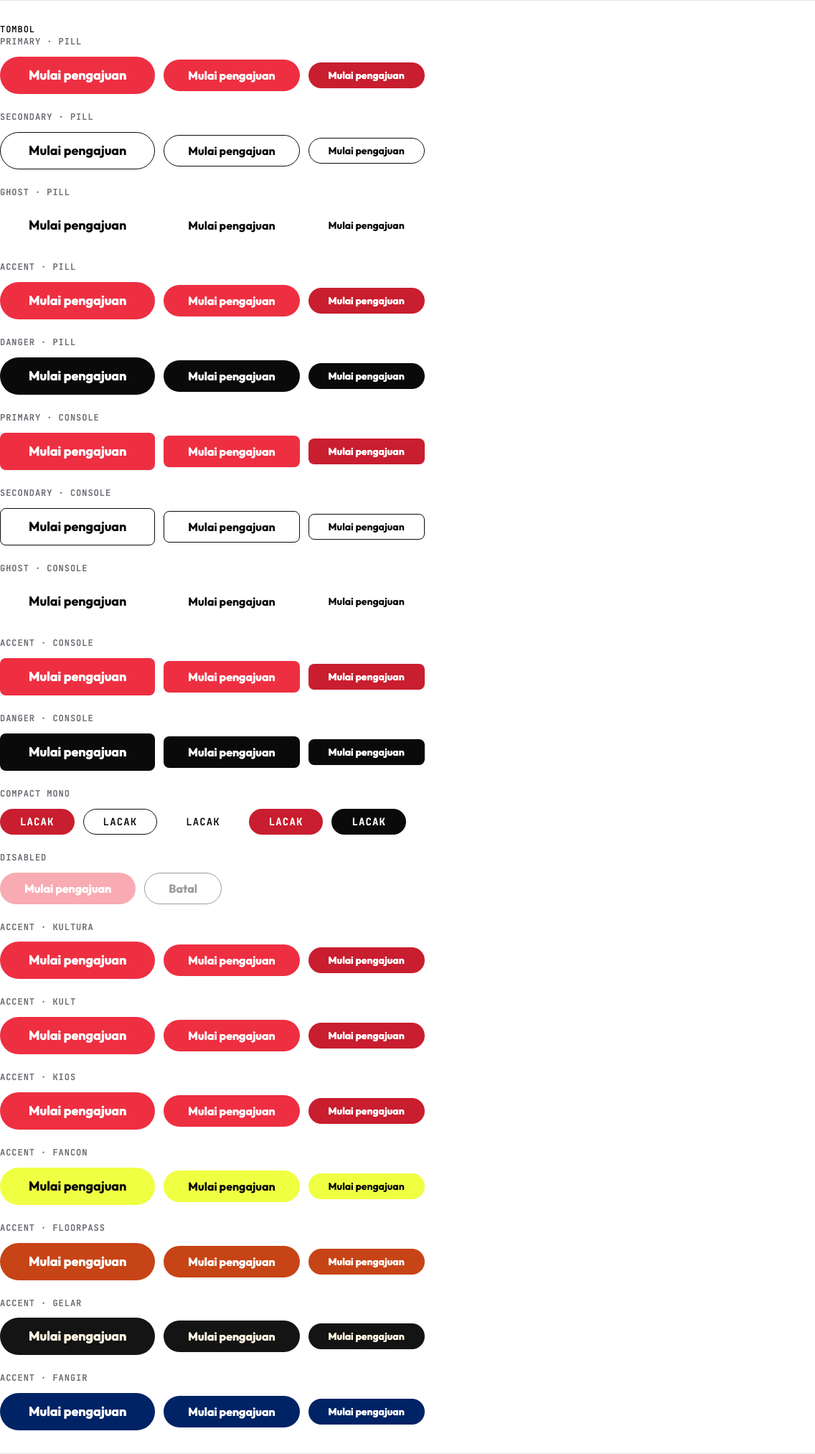
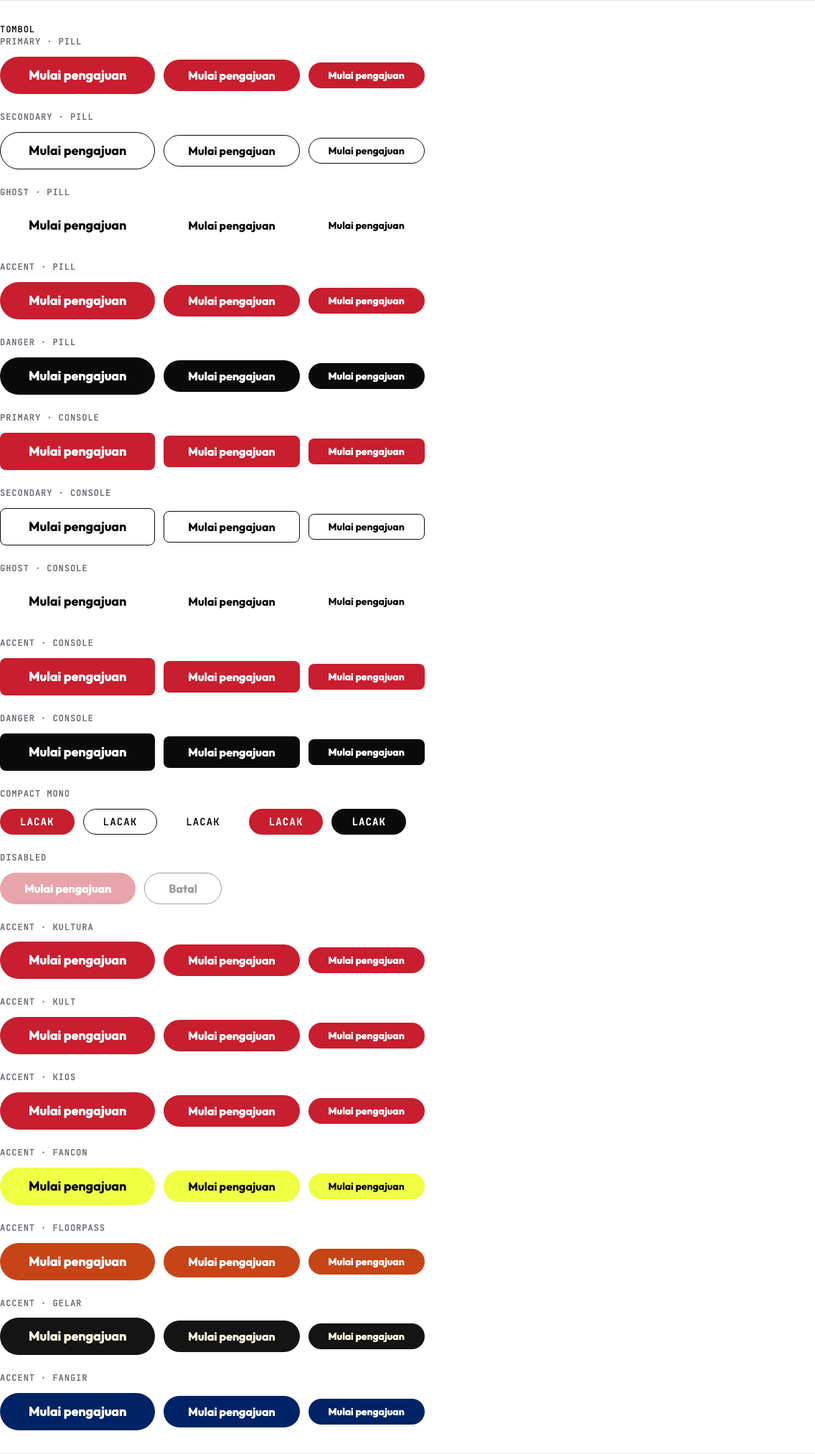
v0.1.1: red-700 button fills, large text on the footer strip, strip container hooks
- Red buttons fill with red-700 at every size (white on red-500 is 4.1:1); accent takes each
  preset's text-safe pair at every size
- Footer strip links and entity line at 19 px bold, so all strip text is large (AA 3:1)
- --k-strip-max and --k-strip-pad let a site line the strip up with its own container
- Version 0.1.1; README, adoption notes and screenshots updated

diff --git a/dist/kultura-house-kit.css b/dist/kultura-house-kit.css
@@ -1,1 +1,1 @@
-:root{--k-red-500:#ee2f42;--k-red-700:#c81e2f;--k-red-800:#b0182a;--k-ink:#0a0a0a;--k-paper:#fff;--k-surface:#f4f4f4;--k-line:#e6e6e6;--k-muted:#6e6e76;--k-amber-text:#8a5a00;--k-amber-tint:#fff4de;--k-amber-line:#f2dca8;--k-green:#0f7a3d;--k-green-tint:#e9f8ef;--k-accent:var(--k-red-500);--k-on-accent:#fff;--k-font:"Outfit",system-ui,sans-serif;--k-mono:"JetBrains Mono",ui-monospace,monospace;--k-radius-pill:9999px;--k-radius-console:8px;--k-radius-card:12px;--k-fast:.12s;--k-base:.2s;--k-slow:.32s;--k-ease:cubic-bezier(.2,.7,.2,1)}[data-k-product=kultura],[data-k-product=kult],[data-k-product=kios]{--k-accent:#ee2f42;--k-on-accent:#fff}[data-k-product=fancon]{--k-accent:#efff42;--k-on-accent:#0a0a0a}[data-k-product=floorpass]{--k-accent:#c74416;--k-on-accent:#fff}[data-k-product=gelar]{--k-accent:#141414;--k-on-accent:#fff4e1}[data-k-product=fangir]{--k-accent:#002366;--k-on-accent:#fff}.k-display,.k-h1,.k-h2,.k-h3,.k-body,.k-small{font-family:var(--k-font);margin:0}.k-display{letter-spacing:-.02em;font-size:48px;font-weight:800;line-height:.95}.k-h1{letter-spacing:-.02em;font-size:40px;font-weight:800;line-height:1.02}.k-h2{letter-spacing:normal;font-size:32px;font-weight:700;line-height:1.05}.k-h3{font-size:22px;font-weight:700;line-height:1.15}.k-body{font-size:16px;font-weight:400;line-height:1.5}.k-small{font-size:14px;font-weight:400;line-height:1.45}.k-label{font-family:var(--k-mono);letter-spacing:.08em;text-transform:uppercase;margin:0;font-size:12px;font-weight:500;line-height:1.4}@media (width>=640px){.k-display{font-size:96px}.k-h1{font-size:64px}.k-h2{letter-spacing:-.02em;font-size:44px}.k-h3{font-size:28px}.k-body{font-size:17px}}.k-btn{--k-btn-h:44px;--k-btn-fs:16px;--k-btn-bg:transparent;--k-btn-fg:var(--k-ink);--k-btn-bd:transparent;box-sizing:border-box;height:var(--k-btn-h);padding:0 calc(var(--k-btn-h) * .75);font-family:var(--k-font);font-size:var(--k-btn-fs);letter-spacing:normal;text-transform:none;white-space:nowrap;color:var(--k-btn-fg);background:var(--k-btn-bg);border:1.5px solid var(--k-btn-bd);border-radius:var(--k-radius-pill);cursor:pointer;-webkit-tap-highlight-color:transparent;justify-content:center;align-items:center;gap:8px;font-weight:700;line-height:1;text-decoration:none;display:inline-flex}.k-btn--hero{--k-btn-h:52px;--k-btn-fs:18px}.k-btn--compact{--k-btn-h:36px;--k-btn-fs:14px}.k-btn--primary{--k-btn-bg:var(--k-red-500);--k-btn-fg:#fff}.k-btn--primary.k-btn--compact{--k-btn-bg:var(--k-red-700)}.k-btn--secondary{--k-btn-bg:transparent;--k-btn-fg:var(--k-ink);--k-btn-bd:var(--k-ink)}.k-btn--ghost{--k-btn-bg:transparent;--k-btn-fg:var(--k-ink)}.k-btn--accent{--k-btn-bg:var(--k-accent);--k-btn-fg:var(--k-on-accent)}:root{--k-btn-accent-compact:var(--k-red-700)}[data-k-product]{--k-btn-accent-compact:var(--k-accent)}[data-k-product=kultura],[data-k-product=kult],[data-k-product=kios]{--k-btn-accent-compact:var(--k-red-700)}.k-btn--accent.k-btn--compact{--k-btn-bg:var(--k-btn-accent-compact)}.k-btn--danger{--k-btn-bg:var(--k-ink);--k-btn-fg:#fff}.k-btn--console{border-radius:var(--k-radius-console)}.k-btn--compact.k-btn--mono{font-family:var(--k-mono);letter-spacing:.08em;text-transform:uppercase;font-weight:500}.k-btn__icon{flex:none;order:1;display:inline-flex}.k-btn:hover{filter:brightness(.94)}.k-btn--ghost:hover{filter:none;text-underline-offset:3px;text-decoration:underline}.k-btn:active{filter:brightness(.88)}.k-btn:disabled,.k-btn[aria-disabled=true]{opacity:.4;filter:none;cursor:not-allowed;pointer-events:none}.k-btn:focus-visible,:where(a,button,input,select,textarea,summary,[tabindex]):focus-visible{outline:3px solid var(--k-red-800);outline-offset:2px}:root[data-k-motion] .k-reveal:not(.is-revealed){opacity:0;transform:translateY(12px)}.k-reveal{transition:opacity var(--k-slow,.32s) var(--k-ease,cubic-bezier(.2,.7,.2,1)),transform var(--k-slow,.32s) var(--k-ease,cubic-bezier(.2,.7,.2,1))}.k-lift{transition:transform var(--k-fast,.12s) var(--k-ease,cubic-bezier(.2,.7,.2,1))}.k-lift:hover{transform:translateY(-2px)}@media (prefers-reduced-motion:reduce){:root[data-k-motion] .k-reveal:not(.is-revealed){opacity:1;transform:none}.k-reveal,.k-lift{transition:none}.k-lift:hover{transform:none}}k-footer-strip,.k-footer-strip{--k-strip-bg:#ee2f42;--k-strip-fg:#fff;--k-strip-font:var(--k-font,"Outfit",system-ui,sans-serif);box-sizing:border-box;background:var(--k-strip-bg);width:100%;color:var(--k-strip-fg);font-family:var(--k-strip-font);display:block}.k-footer-strip__inner{box-sizing:border-box;flex-wrap:wrap;align-items:baseline;gap:12px 32px;max-width:1280px;margin:0 auto;padding:24px 16px;display:flex}.k-footer-strip__line{margin:0;font-size:20px;font-weight:700;line-height:1.3}.k-footer-strip__nav{flex:auto}.k-footer-strip__links{flex-wrap:wrap;gap:8px 20px;margin:0;padding:0;list-style:none;display:flex}.k-footer-strip__link{color:inherit;font-size:16px;font-weight:500;line-height:1.5;text-decoration:none}.k-footer-strip__link:hover{text-underline-offset:3px;text-decoration:underline}.k-footer-strip__link:focus-visible{outline:3px solid var(--k-strip-fg);outline-offset:2px}.k-footer-strip__entity{flex-basis:100%;margin:0;font-size:14px;font-weight:400;line-height:1.45}@media (width>=640px){.k-footer-strip__inner{padding:28px 32px}}.k-footer-wordmark{white-space:nowrap;width:100%;font-family:var(--k-font,"Outfit",system-ui,sans-serif);letter-spacing:-.02em;margin:0;font-size:clamp(64px,18vw,240px);font-weight:800;line-height:.85;display:block;overflow:hidden}k-card-viewer{max-width:var(--k-cv-max,100%);-webkit-tap-highlight-color:transparent;touch-action:pan-y;margin-inline:auto;display:block;position:relative}k-card-viewer:not(:defined)>img{border-radius:var(--k-radius-card,12px);width:100%;height:auto;display:block}k-card-viewer[role=button]{cursor:pointer}k-card-viewer:focus-visible{outline:3px solid var(--k-red-800,#b0182a);outline-offset:4px;border-radius:var(--k-radius-card,12px)}.k-cv__stage{perspective:1000px}.k-cv__card{transform-style:preserve-3d;transform:rotateX(var(--k-rx,0deg)) rotateY(calc(var(--k-ry,0deg) + var(--k-flip,0deg)));transition:transform var(--k-fast,.12s) var(--k-ease,cubic-bezier(.2,.7,.2,1));position:relative}k-card-viewer[data-k-state=settling] .k-cv__card,k-card-viewer[data-k-state=flipping] .k-cv__card{transition-duration:var(--k-slow,.32s)}.k-cv__face{border-radius:var(--k-radius-card,12px);backface-visibility:hidden;background:var(--k-surface,#f4f4f4);position:relative;overflow:hidden}.k-cv__face img{width:100%;max-width:100%;height:auto;display:block}.k-cv__face--back{position:absolute;inset:0;transform:rotateY(180deg)}.k-cv__face--back img{object-fit:cover;height:100%}.k-cv__sheen{pointer-events:none;mix-blend-mode:color-dodge;opacity:.35;border-radius:inherit;background-size:200% 200%;background-position:var(--k-sheen-x,50%) var(--k-sheen-y,50%);position:absolute;inset:0}k-card-viewer[sheen=none] .k-cv__sheen,k-card-viewer[data-k-sheen=none] .k-cv__sheen{display:none}k-card-viewer[data-k-sheen=holo] .k-cv__sheen{background-image:linear-gradient(var(--k-sheen-angle,115deg),transparent 20%,#ff7ad9 34%,#7af3ff 44%,#fff58a 54%,#8aff9c 64%,transparent 80%)}k-card-viewer[data-k-sheen=foil] .k-cv__sheen{background-image:linear-gradient(var(--k-sheen-angle,115deg),transparent 25%,#fff 40%,#d9c27a 50%,#fff 60%,transparent 75%)}k-card-viewer[data-k-kind=slab] .k-cv__face{aspect-ratio:3.07/5.31;box-sizing:border-box;background:linear-gradient(160deg,#fbfbfb,#e7e8ea);border:1px solid #0a0a0a24;border-radius:10px;grid-template-rows:auto minmax(0,1fr);gap:4%;padding:5%;display:grid}.k-cv__label{box-sizing:border-box;border:1px solid var(--k-line,#e6e6e6);min-height:2.6em;color:var(--k-ink,#0a0a0a);font-family:var(--k-mono,"JetBrains Mono",ui-monospace,monospace);letter-spacing:.08em;text-transform:uppercase;background:#fff;border-radius:3px;align-items:center;padding:6px 8px;font-size:12px;font-weight:500;line-height:1.3;display:flex;overflow:hidden}.k-cv__window{background:#0a0a0a0a;border-radius:4px;justify-content:center;align-items:center;min-height:0;display:flex;overflow:hidden}k-card-viewer[data-k-kind=slab] .k-cv__window img{object-fit:contain;width:auto;height:auto;max-height:100%}k-card-viewer[data-k-kind=slab] .k-cv__face--back img{height:auto}k-card-viewer[data-k-reduced] .k-cv__card{transition:none;transform:none}k-card-viewer[data-k-reduced] .k-cv__sheen{display:none}k-card-viewer[data-k-reduced] .k-cv__face--back{display:none;position:relative;transform:none}k-card-viewer[data-k-reduced][data-k-side=back] .k-cv__face--front{display:none}k-card-viewer[data-k-reduced][data-k-side=back] .k-cv__face--back{display:grid}k-card-viewer[data-k-reduced][data-k-kind=card][data-k-side=back] .k-cv__face--back{display:block}@media (prefers-reduced-motion:reduce){.k-cv__card{transition:none!important;transform:none!important}.k-cv__sheen{display:none}}
+:root{--k-red-500:#ee2f42;--k-red-700:#c81e2f;--k-red-800:#b0182a;--k-ink:#0a0a0a;--k-paper:#fff;--k-surface:#f4f4f4;--k-line:#e6e6e6;--k-muted:#6e6e76;--k-amber-text:#8a5a00;--k-amber-tint:#fff4de;--k-amber-line:#f2dca8;--k-green:#0f7a3d;--k-green-tint:#e9f8ef;--k-accent:var(--k-red-500);--k-on-accent:#fff;--k-font:"Outfit",system-ui,sans-serif;--k-mono:"JetBrains Mono",ui-monospace,monospace;--k-radius-pill:9999px;--k-radius-console:8px;--k-radius-card:12px;--k-fast:.12s;--k-base:.2s;--k-slow:.32s;--k-ease:cubic-bezier(.2,.7,.2,1)}[data-k-product=kultura],[data-k-product=kult],[data-k-product=kios]{--k-accent:#ee2f42;--k-on-accent:#fff}[data-k-product=fancon]{--k-accent:#efff42;--k-on-accent:#0a0a0a}[data-k-product=floorpass]{--k-accent:#c74416;--k-on-accent:#fff}[data-k-product=gelar]{--k-accent:#141414;--k-on-accent:#fff4e1}[data-k-product=fangir]{--k-accent:#002366;--k-on-accent:#fff}.k-display,.k-h1,.k-h2,.k-h3,.k-body,.k-small{font-family:var(--k-font);margin:0}.k-display{letter-spacing:-.02em;font-size:48px;font-weight:800;line-height:.95}.k-h1{letter-spacing:-.02em;font-size:40px;font-weight:800;line-height:1.02}.k-h2{letter-spacing:normal;font-size:32px;font-weight:700;line-height:1.05}.k-h3{font-size:22px;font-weight:700;line-height:1.15}.k-body{font-size:16px;font-weight:400;line-height:1.5}.k-small{font-size:14px;font-weight:400;line-height:1.45}.k-label{font-family:var(--k-mono);letter-spacing:.08em;text-transform:uppercase;margin:0;font-size:12px;font-weight:500;line-height:1.4}@media (width>=640px){.k-display{font-size:96px}.k-h1{font-size:64px}.k-h2{letter-spacing:-.02em;font-size:44px}.k-h3{font-size:28px}.k-body{font-size:17px}}.k-btn{--k-btn-h:44px;--k-btn-fs:16px;--k-btn-bg:transparent;--k-btn-fg:var(--k-ink);--k-btn-bd:transparent;box-sizing:border-box;height:var(--k-btn-h);padding:0 calc(var(--k-btn-h) * .75);font-family:var(--k-font);font-size:var(--k-btn-fs);letter-spacing:normal;text-transform:none;white-space:nowrap;color:var(--k-btn-fg);background:var(--k-btn-bg);border:1.5px solid var(--k-btn-bd);border-radius:var(--k-radius-pill);cursor:pointer;-webkit-tap-highlight-color:transparent;justify-content:center;align-items:center;gap:8px;font-weight:700;line-height:1;text-decoration:none;display:inline-flex}.k-btn--hero{--k-btn-h:52px;--k-btn-fs:18px}.k-btn--compact{--k-btn-h:36px;--k-btn-fs:14px}.k-btn--primary{--k-btn-bg:var(--k-red-700);--k-btn-fg:#fff}.k-btn--secondary{--k-btn-bg:transparent;--k-btn-fg:var(--k-ink);--k-btn-bd:var(--k-ink)}.k-btn--ghost{--k-btn-bg:transparent;--k-btn-fg:var(--k-ink)}:root{--k-btn-accent-fill:var(--k-red-700)}[data-k-product]{--k-btn-accent-fill:var(--k-accent)}[data-k-product=kultura],[data-k-product=kult],[data-k-product=kios]{--k-btn-accent-fill:var(--k-red-700)}.k-btn--accent{--k-btn-bg:var(--k-btn-accent-fill);--k-btn-fg:var(--k-on-accent)}.k-btn--danger{--k-btn-bg:var(--k-ink);--k-btn-fg:#fff}.k-btn--console{border-radius:var(--k-radius-console)}.k-btn--compact.k-btn--mono{font-family:var(--k-mono);letter-spacing:.08em;text-transform:uppercase;font-weight:500}.k-btn__icon{flex:none;order:1;display:inline-flex}.k-btn:hover{filter:brightness(.94)}.k-btn--ghost:hover{filter:none;text-underline-offset:3px;text-decoration:underline}.k-btn:active{filter:brightness(.88)}.k-btn:disabled,.k-btn[aria-disabled=true]{opacity:.4;filter:none;cursor:not-allowed;pointer-events:none}.k-btn:focus-visible,:where(a,button,input,select,textarea,summary,[tabindex]):focus-visible{outline:3px solid var(--k-red-800);outline-offset:2px}:root[data-k-motion] .k-reveal:not(.is-revealed){opacity:0;transform:translateY(12px)}.k-reveal{transition:opacity var(--k-slow,.32s) var(--k-ease,cubic-bezier(.2,.7,.2,1)),transform var(--k-slow,.32s) var(--k-ease,cubic-bezier(.2,.7,.2,1))}.k-lift{transition:transform var(--k-fast,.12s) var(--k-ease,cubic-bezier(.2,.7,.2,1))}.k-lift:hover{transform:translateY(-2px)}@media (prefers-reduced-motion:reduce){:root[data-k-motion] .k-reveal:not(.is-revealed){opacity:1;transform:none}.k-reveal,.k-lift{transition:none}.k-lift:hover{transform:none}}k-footer-strip,.k-footer-strip{--k-strip-bg:#ee2f42;--k-strip-fg:#fff;--k-strip-font:var(--k-font,"Outfit",system-ui,sans-serif);box-sizing:border-box;background:var(--k-strip-bg);width:100%;color:var(--k-strip-fg);font-family:var(--k-strip-font);display:block}.k-footer-strip__inner{box-sizing:border-box;max-width:var(--k-strip-max,1280px);padding:24px var(--k-strip-pad,16px);flex-wrap:wrap;align-items:baseline;gap:12px 32px;margin:0 auto;display:flex}.k-footer-strip__line{margin:0;font-size:20px;font-weight:700;line-height:1.3}.k-footer-strip__nav{flex:auto}.k-footer-strip__links{flex-wrap:wrap;gap:8px 20px;margin:0;padding:0;list-style:none;display:flex}.k-footer-strip__link{color:inherit;font-size:19px;font-weight:700;line-height:1.4;text-decoration:none}.k-footer-strip__link:hover{text-underline-offset:3px;text-decoration:underline}.k-footer-strip__link:focus-visible{outline:3px solid var(--k-strip-fg);outline-offset:2px}.k-footer-strip__entity{flex-basis:100%;margin:0;font-size:19px;font-weight:700;line-height:1.4}@media (width>=640px){.k-footer-strip__inner{padding:28px var(--k-strip-pad,32px)}}.k-footer-wordmark{white-space:nowrap;width:100%;font-family:var(--k-font,"Outfit",system-ui,sans-serif);letter-spacing:-.02em;margin:0;font-size:clamp(64px,18vw,240px);font-weight:800;line-height:.85;display:block;overflow:hidden}k-card-viewer{max-width:var(--k-cv-max,100%);-webkit-tap-highlight-color:transparent;touch-action:pan-y;margin-inline:auto;display:block;position:relative}k-card-viewer:not(:defined)>img{border-radius:var(--k-radius-card,12px);width:100%;height:auto;display:block}k-card-viewer[role=button]{cursor:pointer}k-card-viewer:focus-visible{outline:3px solid var(--k-red-800,#b0182a);outline-offset:4px;border-radius:var(--k-radius-card,12px)}.k-cv__stage{perspective:1000px}.k-cv__card{transform-style:preserve-3d;transform:rotateX(var(--k-rx,0deg)) rotateY(calc(var(--k-ry,0deg) + var(--k-flip,0deg)));transition:transform var(--k-fast,.12s) var(--k-ease,cubic-bezier(.2,.7,.2,1));position:relative}k-card-viewer[data-k-state=settling] .k-cv__card,k-card-viewer[data-k-state=flipping] .k-cv__card{transition-duration:var(--k-slow,.32s)}.k-cv__face{border-radius:var(--k-radius-card,12px);backface-visibility:hidden;background:var(--k-surface,#f4f4f4);position:relative;overflow:hidden}.k-cv__face img{width:100%;max-width:100%;height:auto;display:block}.k-cv__face--back{position:absolute;inset:0;transform:rotateY(180deg)}.k-cv__face--back img{object-fit:cover;height:100%}.k-cv__sheen{pointer-events:none;mix-blend-mode:color-dodge;opacity:.35;border-radius:inherit;background-size:200% 200%;background-position:var(--k-sheen-x,50%) var(--k-sheen-y,50%);position:absolute;inset:0}k-card-viewer[sheen=none] .k-cv__sheen,k-card-viewer[data-k-sheen=none] .k-cv__sheen{display:none}k-card-viewer[data-k-sheen=holo] .k-cv__sheen{background-image:linear-gradient(var(--k-sheen-angle,115deg),transparent 20%,#ff7ad9 34%,#7af3ff 44%,#fff58a 54%,#8aff9c 64%,transparent 80%)}k-card-viewer[data-k-sheen=foil] .k-cv__sheen{background-image:linear-gradient(var(--k-sheen-angle,115deg),transparent 25%,#fff 40%,#d9c27a 50%,#fff 60%,transparent 75%)}k-card-viewer[data-k-kind=slab] .k-cv__face{aspect-ratio:3.07/5.31;box-sizing:border-box;background:linear-gradient(160deg,#fbfbfb,#e7e8ea);border:1px solid #0a0a0a24;border-radius:10px;grid-template-rows:auto minmax(0,1fr);gap:4%;padding:5%;display:grid}.k-cv__label{box-sizing:border-box;border:1px solid var(--k-line,#e6e6e6);min-height:2.6em;color:var(--k-ink,#0a0a0a);font-family:var(--k-mono,"JetBrains Mono",ui-monospace,monospace);letter-spacing:.08em;text-transform:uppercase;background:#fff;border-radius:3px;align-items:center;padding:6px 8px;font-size:12px;font-weight:500;line-height:1.3;display:flex;overflow:hidden}.k-cv__window{background:#0a0a0a0a;border-radius:4px;justify-content:center;align-items:center;min-height:0;display:flex;overflow:hidden}k-card-viewer[data-k-kind=slab] .k-cv__window img{object-fit:contain;width:auto;height:auto;max-height:100%}k-card-viewer[data-k-kind=slab] .k-cv__face--back img{height:auto}k-card-viewer[data-k-reduced] .k-cv__card{transition:none;transform:none}k-card-viewer[data-k-reduced] .k-cv__sheen{display:none}k-card-viewer[data-k-reduced] .k-cv__face--back{display:none;position:relative;transform:none}k-card-viewer[data-k-reduced][data-k-side=back] .k-cv__face--front{display:none}k-card-viewer[data-k-reduced][data-k-side=back] .k-cv__face--back{display:grid}k-card-viewer[data-k-reduced][data-k-kind=card][data-k-side=back] .k-cv__face--back{display:block}@media (prefers-reduced-motion:reduce){.k-cv__card{transition:none!important;transform:none!important}.k-cv__sheen{display:none}}

diff --git a/dist/base.css b/dist/base.css
@@ -58,17 +58,16 @@
 .k-btn--hero{--k-btn-h:52px;--k-btn-fs:18px}
 .k-btn--compact{--k-btn-h:36px;--k-btn-fs:14px}
 
-.k-btn--primary{--k-btn-bg:var(--k-red-500);--k-btn-fg:#FFFFFF}
-.k-btn--primary.k-btn--compact{--k-btn-bg:var(--k-red-700)}
+/* Red fills with white text sit on red-700 (5.7:1) at every size; red-500 is 4.1:1 (v0.1.1). */
+.k-btn--primary{--k-btn-bg:var(--k-red-700);--k-btn-fg:#FFFFFF}
 .k-btn--secondary{--k-btn-bg:transparent;--k-btn-fg:var(--k-ink);--k-btn-bd:var(--k-ink)}
 .k-btn--ghost{--k-btn-bg:transparent;--k-btn-fg:var(--k-ink)}
-.k-btn--accent{--k-btn-bg:var(--k-accent);--k-btn-fg:var(--k-on-accent)}
-/* Accent text below 16 px: red presets sit on red-700, never on red-500. Inherited, so the
-   nearest data-k-product scope wins. */
-:root{--k-btn-accent-compact:var(--k-red-700)}
-[data-k-product]{--k-btn-accent-compact:var(--k-accent)}
-[data-k-product="kultura"],[data-k-product="kult"],[data-k-product="kios"]{--k-btn-accent-compact:var(--k-red-700)}
-.k-btn--accent.k-btn--compact{--k-btn-bg:var(--k-btn-accent-compact)}
+/* Accent fill: the product accent, except red presets, which sit on red-700 at every size.
+   Inherited, so the nearest data-k-product scope wins. */
+:root{--k-btn-accent-fill:var(--k-red-700)}
+[data-k-product]{--k-btn-accent-fill:var(--k-accent)}
+[data-k-product="kultura"],[data-k-product="kult"],[data-k-product="kios"]{--k-btn-accent-fill:var(--k-red-700)}
+.k-btn--accent{--k-btn-bg:var(--k-btn-accent-fill);--k-btn-fg:var(--k-on-accent)}
 .k-btn--danger{--k-btn-bg:var(--k-ink);--k-btn-fg:#FFFFFF}
 
 .k-btn--console{border-radius:var(--k-radius-console)}
@@ -98,22 +97,24 @@
 }
 /* Footer strip and wordmark. Self-scoped: declares the tokens it needs on the element,
    so it works without tokens.css (FanHub, DS-2). The font follows --k-font when the page
-   sets it (a framework font loader names the family itself), else "Outfit". */
+   sets it (a framework font loader names the family itself), else "Outfit".
+   White on red-500 is 4.1:1, so every text here is large: 19 px bold and up (v0.1.1).
+   --k-strip-max and --k-strip-pad let a site line the strip up with its own container. */
 k-footer-strip,.k-footer-strip{
   --k-strip-bg:#EE2F42;--k-strip-fg:#FFFFFF;
   --k-strip-font:var(--k-font,"Outfit",system-ui,sans-serif);
   display:block;width:100%;box-sizing:border-box;
   background:var(--k-strip-bg);color:var(--k-strip-fg);font-family:var(--k-strip-font);
 }
-.k-footer-strip__inner{box-sizing:border-box;max-width:1280px;margin:0 auto;padding:24px 16px;display:flex;flex-wrap:wrap;align-items:baseline;gap:12px 32px}
+.k-footer-strip__inner{box-sizing:border-box;max-width:var(--k-strip-max,1280px);margin:0 auto;padding:24px var(--k-strip-pad,16px);display:flex;flex-wrap:wrap;align-items:baseline;gap:12px 32px}
 .k-footer-strip__line{margin:0;font-size:20px;line-height:1.3;font-weight:700}
 .k-footer-strip__nav{flex:1 1 auto}
 .k-footer-strip__links{list-style:none;margin:0;padding:0;display:flex;flex-wrap:wrap;gap:8px 20px}
-.k-footer-strip__link{color:inherit;font-size:16px;line-height:1.5;font-weight:500;text-decoration:none}
+.k-footer-strip__link{color:inherit;font-size:19px;line-height:1.4;font-weight:700;text-decoration:none}
 .k-footer-strip__link:hover{text-decoration:underline;text-underline-offset:3px}
 .k-footer-strip__link:focus-visible{outline:3px solid var(--k-strip-fg);outline-offset:2px}
-.k-footer-strip__entity{flex-basis:100%;margin:0;font-size:14px;line-height:1.45;font-weight:400}
-@media (min-width:640px){.k-footer-strip__inner{padding:28px 32px}}
+.k-footer-strip__entity{flex-basis:100%;margin:0;font-size:19px;line-height:1.4;font-weight:700}
+@media (min-width:640px){.k-footer-strip__inner{padding:28px var(--k-strip-pad,32px)}}
 
 .k-footer-wordmark{display:block;width:100%;overflow:hidden;white-space:nowrap;margin:0;font-family:var(--k-font,"Outfit",system-ui,sans-serif);font-size:clamp(64px,18vw,240px);line-height:.85;font-weight:800;letter-spacing:-0.02em}
 /* <k-card-viewer>: one object, large, tilting. No-JS fallback is the front image. */

diff --git a/tests/buttons.test.ts b/tests/buttons.test.ts
@@ -2,7 +2,7 @@
 import { readFileSync } from "node:fs";
 import { describe, expect, it } from "vitest";
 import { buttonClass, BUTTON_SHAPES, BUTTON_SIZES, BUTTON_VARIANTS } from "../src/button";
-import { AA_LARGE, AA_TEXT, contrastRatio } from "../src/contrast";
+import { AA_TEXT, contrastRatio } from "../src/contrast";
 import { productPresets, tokens } from "../src/tokens";
 import { readStyles } from "./support/style-reader";
 
@@ -49,10 +49,11 @@ describe("button matrix", () => {
     }
   });
 
-  it("switches red fills to red-700 at compact size", () => {
-    expect(matrix[buttonClass({ size: "compact", variant: "accent" })]!.background).toBe(tokens["red-700"]);
-    expect(matrix[buttonClass({ size: "compact" })]!.background).toBe(tokens["red-700"]);
-    expect(matrix[buttonClass({ size: "default" })]!.background).toBe(tokens["red-500"]);
+  it("fills red buttons with red-700 at every size", () => {
+    for (const size of BUTTON_SIZES) {
+      expect(matrix[buttonClass({ size })]!.background, size).toBe(tokens["red-700"]);
+      expect(matrix[buttonClass({ size, variant: "accent" })]!.background, size).toBe(tokens["red-700"]);
+    }
     expect(contrastRatio(tokens["red-700"], "#FFFFFF")).toBeGreaterThanOrEqual(AA_TEXT);
   });
 
@@ -77,13 +78,8 @@ describe("button matrix", () => {
   it("meets contrast for every filled variant", () => {
     for (const [cls, s] of Object.entries(matrix)) {
       if (!isHex(s.background) || !isHex(s.color)) continue;
-      const ratio = contrastRatio(s.background!, s.color!);
-      // Compact text (14 px) always needs 4.5:1. Red-500 at 16 and 18 px bold is the decided
-      // spec (plan section 7) and measures 4.1:1; it is held at the large-type floor and
-      // listed as an open question in STATUS.md.
-      const compact = cls.includes("k-btn--compact");
-      const floor = !compact && s.background === tokens["red-500"] ? AA_LARGE : AA_TEXT;
-      expect(ratio, cls).toBeGreaterThanOrEqual(floor);
+      // Button text is 14 to 18 px, below the large-text size, so every fill needs 4.5:1.
+      expect(contrastRatio(s.background!, s.color!), cls).toBeGreaterThanOrEqual(AA_TEXT);
     }
   });
 });
@@ -99,12 +95,12 @@ describe("accent button per product preset", () => {
   for (const [product, preset] of Object.entries(productPresets)) {
     if (!preset) continue;
     it(`${product}: accent button reads the preset`, () => {
-      const s = computed(buttonClass({ variant: "accent" }), product);
-      expect(s.background?.toUpperCase()).toBe(preset.accent);
-      expect(s.color?.toUpperCase()).toBe(preset.onAccent);
-      const c = computed(buttonClass({ variant: "accent", size: "compact" }), product);
-      expect(c.background?.toUpperCase(), "compact uses the text pair").toBe(preset.textPair.bg);
-      expect(contrastRatio(c.background!, c.color!)).toBeGreaterThanOrEqual(AA_TEXT);
+      for (const size of BUTTON_SIZES) {
+        const s = computed(buttonClass({ variant: "accent", size }), product);
+        expect(s.background?.toUpperCase(), `${size} uses the text pair`).toBe(preset.textPair.bg);
+        expect(s.color?.toUpperCase()).toBe(preset.onAccent);
+        expect(contrastRatio(s.background!, s.color!)).toBeGreaterThanOrEqual(AA_TEXT);
+      }
     });
   }
 });

diff --git a/dist/footer.css b/dist/footer.css
@@ -1,22 +1,24 @@
 /* Footer strip + motion rules without global tokens (for products that keep their own, DS-2). */
 /* Footer strip and wordmark. Self-scoped: declares the tokens it needs on the element,
    so it works without tokens.css (FanHub, DS-2). The font follows --k-font when the page
-   sets it (a framework font loader names the family itself), else "Outfit". */
+   sets it (a framework font loader names the family itself), else "Outfit".
+   White on red-500 is 4.1:1, so every text here is large: 19 px bold and up (v0.1.1).
+   --k-strip-max and --k-strip-pad let a site line the strip up with its own container. */
 k-footer-strip,.k-footer-strip{
   --k-strip-bg:#EE2F42;--k-strip-fg:#FFFFFF;
   --k-strip-font:var(--k-font,"Outfit",system-ui,sans-serif);
   display:block;width:100%;box-sizing:border-box;
   background:var(--k-strip-bg);color:var(--k-strip-fg);font-family:var(--k-strip-font);
 }
-.k-footer-strip__inner{box-sizing:border-box;max-width:1280px;margin:0 auto;padding:24px 16px;display:flex;flex-wrap:wrap;align-items:baseline;gap:12px 32px}
+.k-footer-strip__inner{box-sizing:border-box;max-width:var(--k-strip-max,1280px);margin:0 auto;padding:24px var(--k-strip-pad,16px);display:flex;flex-wrap:wrap;align-items:baseline;gap:12px 32px}
 .k-footer-strip__line{margin:0;font-size:20px;line-height:1.3;font-weight:700}
 .k-footer-strip__nav{flex:1 1 auto}
 .k-footer-strip__links{list-style:none;margin:0;padding:0;display:flex;flex-wrap:wrap;gap:8px 20px}
-.k-footer-strip__link{color:inherit;font-size:16px;line-height:1.5;font-weight:500;text-decoration:none}
+.k-footer-strip__link{color:inherit;font-size:19px;line-height:1.4;font-weight:700;text-decoration:none}
 .k-footer-strip__link:hover{text-decoration:underline;text-underline-offset:3px}
 .k-footer-strip__link:focus-visible{outline:3px solid var(--k-strip-fg);outline-offset:2px}
-.k-footer-strip__entity{flex-basis:100%;margin:0;font-size:14px;line-height:1.45;font-weight:400}
-@media (min-width:640px){.k-footer-strip__inner{padding:28px 32px}}
+.k-footer-strip__entity{flex-basis:100%;margin:0;font-size:19px;line-height:1.4;font-weight:700}
+@media (min-width:640px){.k-footer-strip__inner{padding:28px var(--k-strip-pad,32px)}}
 
 .k-footer-wordmark{display:block;width:100%;overflow:hidden;white-space:nowrap;margin:0;font-family:var(--k-font,"Outfit",system-ui,sans-serif);font-size:clamp(64px,18vw,240px);line-height:.85;font-weight:800;letter-spacing:-0.02em}
 /* Motion: only transform and opacity animate. Everything off under reduced motion.

diff --git a/src/css/footer-strip.css b/src/css/footer-strip.css
@@ -1,20 +1,22 @@
 /* Footer strip and wordmark. Self-scoped: declares the tokens it needs on the element,
    so it works without tokens.css (FanHub, DS-2). The font follows --k-font when the page
-   sets it (a framework font loader names the family itself), else "Outfit". */
+   sets it (a framework font loader names the family itself), else "Outfit".
+   White on red-500 is 4.1:1, so every text here is large: 19 px bold and up (v0.1.1).
+   --k-strip-max and --k-strip-pad let a site line the strip up with its own container. */
 k-footer-strip,.k-footer-strip{
   --k-strip-bg:#EE2F42;--k-strip-fg:#FFFFFF;
   --k-strip-font:var(--k-font,"Outfit",system-ui,sans-serif);
   display:block;width:100%;box-sizing:border-box;
   background:var(--k-strip-bg);color:var(--k-strip-fg);font-family:var(--k-strip-font);
 }
-.k-footer-strip__inner{box-sizing:border-box;max-width:1280px;margin:0 auto;padding:24px 16px;display:flex;flex-wrap:wrap;align-items:baseline;gap:12px 32px}
+.k-footer-strip__inner{box-sizing:border-box;max-width:var(--k-strip-max,1280px);margin:0 auto;padding:24px var(--k-strip-pad,16px);display:flex;flex-wrap:wrap;align-items:baseline;gap:12px 32px}
 .k-footer-strip__line{margin:0;font-size:20px;line-height:1.3;font-weight:700}
 .k-footer-strip__nav{flex:1 1 auto}
 .k-footer-strip__links{list-style:none;margin:0;padding:0;display:flex;flex-wrap:wrap;gap:8px 20px}
-.k-footer-strip__link{color:inherit;font-size:16px;line-height:1.5;font-weight:500;text-decoration:none}
+.k-footer-strip__link{color:inherit;font-size:19px;line-height:1.4;font-weight:700;text-decoration:none}
 .k-footer-strip__link:hover{text-decoration:underline;text-underline-offset:3px}
 .k-footer-strip__link:focus-visible{outline:3px solid var(--k-strip-fg);outline-offset:2px}
-.k-footer-strip__entity{flex-basis:100%;margin:0;font-size:14px;line-height:1.45;font-weight:400}
-@media (min-width:640px){.k-footer-strip__inner{padding:28px 32px}}
+.k-footer-strip__entity{flex-basis:100%;margin:0;font-size:19px;line-height:1.4;font-weight:700}
+@media (min-width:640px){.k-footer-strip__inner{padding:28px var(--k-strip-pad,32px)}}
 
 .k-footer-wordmark{display:block;width:100%;overflow:hidden;white-space:nowrap;margin:0;font-family:var(--k-font,"Outfit",system-ui,sans-serif);font-size:clamp(64px,18vw,240px);line-height:.85;font-weight:800;letter-spacing:-0.02em}

diff --git a/tests/footer.test.tsx b/tests/footer.test.tsx
@@ -88,3 +88,40 @@ describe("footer strip font", () => {
     expect(readStyles(strip, withFont)("font-family")).toBe(`"__Outfit_a1b2c3",system-ui,sans-serif`);
   });
 });
+
+describe("footer strip contrast and grid", () => {
+  const load = async () => {
+    const { readFileSync } = await import("node:fs");
+    const { readStyles } = await import("./support/style-reader");
+    const { contrastRatio, AA_LARGE } = await import("../src/contrast");
+    return { css: readFileSync(`${process.cwd()}/src/css/footer-strip.css`, "utf8"), readStyles, contrastRatio, AA_LARGE };
+  };
+
+  it("sets every text at large size, since white on red-500 is 4.1:1", async () => {
+    const { css, readStyles, contrastRatio, AA_LARGE } = await load();
+    document.body.innerHTML = renderFooterStripHTML({ entity: "PT Kios Gemar Kreasi" });
+    const strip = document.querySelector("k-footer-strip")!;
+    const bg = readStyles(strip, css)("--k-strip-bg")!;
+    const fg = readStyles(strip, css)("--k-strip-fg")!;
+    expect(contrastRatio(bg, fg)).toBeGreaterThanOrEqual(AA_LARGE);
+    for (const sel of [".k-footer-strip__line", ".k-footer-strip__link", ".k-footer-strip__entity"]) {
+      const read = readStyles(strip.querySelector(sel)!, css);
+      const px = parseFloat(read("font-size")!);
+      const weight = Number(read("font-weight"));
+      // WCAG large text: 24 px, or 18.66 px (14 pt) and bold.
+      expect(px >= 24 || (px >= 18.66 && weight >= 700), sel).toBe(true);
+    }
+  });
+
+  it("takes the site's container through --k-strip-max and --k-strip-pad", async () => {
+    const { css, readStyles } = await load();
+    document.body.innerHTML = `<div class="k">${renderFooterStripHTML({})}</div>`;
+    const inner = document.querySelector(".k-footer-strip__inner")!;
+    expect(readStyles(inner, css)("max-width")).toBe("1280px");
+    expect(readStyles(inner, css)("padding")).toBe("24px 16px");
+    expect(readStyles(inner, css, { desktop: true })("padding")).toBe("28px 32px");
+    const site = `${css}\n.k{--k-strip-max:1200px;--k-strip-pad:64px}`;
+    expect(readStyles(inner, site)("max-width")).toBe("1200px");
+    expect(readStyles(inner, site, { desktop: true })("padding")).toBe("28px 64px");
+  });
+});

diff --git a/src/css/buttons.css b/src/css/buttons.css
@@ -13,17 +13,16 @@
 .k-btn--hero{--k-btn-h:52px;--k-btn-fs:18px}
 .k-btn--compact{--k-btn-h:36px;--k-btn-fs:14px}
 
-.k-btn--primary{--k-btn-bg:var(--k-red-500);--k-btn-fg:#FFFFFF}
-.k-btn--primary.k-btn--compact{--k-btn-bg:var(--k-red-700)}
+/* Red fills with white text sit on red-700 (5.7:1) at every size; red-500 is 4.1:1 (v0.1.1). */
+.k-btn--primary{--k-btn-bg:var(--k-red-700);--k-btn-fg:#FFFFFF}
 .k-btn--secondary{--k-btn-bg:transparent;--k-btn-fg:var(--k-ink);--k-btn-bd:var(--k-ink)}
 .k-btn--ghost{--k-btn-bg:transparent;--k-btn-fg:var(--k-ink)}
-.k-btn--accent{--k-btn-bg:var(--k-accent);--k-btn-fg:var(--k-on-accent)}
-/* Accent text below 16 px: red presets sit on red-700, never on red-500. Inherited, so the
-   nearest data-k-product scope wins. */
-:root{--k-btn-accent-compact:var(--k-red-700)}
-[data-k-product]{--k-btn-accent-compact:var(--k-accent)}
-[data-k-product="kultura"],[data-k-product="kult"],[data-k-product="kios"]{--k-btn-accent-compact:var(--k-red-700)}
-.k-btn--accent.k-btn--compact{--k-btn-bg:var(--k-btn-accent-compact)}
+/* Accent fill: the product accent, except red presets, which sit on red-700 at every size.
+   Inherited, so the nearest data-k-product scope wins. */
+:root{--k-btn-accent-fill:var(--k-red-700)}
+[data-k-product]{--k-btn-accent-fill:var(--k-accent)}
+[data-k-product="kultura"],[data-k-product="kult"],[data-k-product="kios"]{--k-btn-accent-fill:var(--k-red-700)}
+.k-btn--accent{--k-btn-bg:var(--k-btn-accent-fill);--k-btn-fg:var(--k-on-accent)}
 .k-btn--danger{--k-btn-bg:var(--k-ink);--k-btn-fg:#FFFFFF}
 
 .k-btn--console{border-radius:var(--k-radius-console)}

diff --git a/README.md b/README.md
@@ -7,7 +7,7 @@ Plan of record: `04_Digital/00_Strategy/Kultura_Digital_Web_Design_Benchmark_v2_
 ## Install
 
 ```json
-"@kultura/house-kit": "github:adesulco/kultura-house-kit#v0.1.0"
+"@kultura/house-kit": "github:adesulco/kultura-house-kit#v0.1.1"
 ```
 
 `dist/` is committed, so installing from the tag needs no build step. The repository is public (decided 31 Oct 2026), so CI and Vercel install it with no token.
@@ -38,7 +38,7 @@ Put the product key on `<html>`. It sets `--k-accent` and `--k-on-accent`.
 
 | Product | `--k-accent` | `--k-on-accent` | Notes |
 |---|---|---|---|
-| `kultura`, `kult`, `kios` (default) | `#EE2F42` | `#FFFFFF` | Fills and type 24 px and up. Text below 16 px sits on red-700 `#C81E2F` |
+| `kultura`, `kult`, `kios` (default) | `#EE2F42` | `#FFFFFF` | Band fills and type 24 px and up. Buttons and white text below large size sit on red-700 `#C81E2F` |
 | `fancon` | `#EFFF42` | `#0A0A0A` | FanCon lime, used on ink surfaces |
 | `floorpass` | `#C74416` | `#FFFFFF` | 4.9:1. `#E8632B` is retired (3.4:1) |
 | `gelar` | `#141414` | `#FFF4E1` | |
@@ -52,7 +52,7 @@ A unit test computes WCAG contrast for every preset and fails under 4.5:1.
 | Token | Value | Use |
 |---|---|---|
 | `--k-red-500` | `#EE2F42` | Fills, type 24 px and up, logo, ecosystem strip |
-| `--k-red-700` | `#C81E2F` | Links, small buttons, text-size red (5.7:1 on white). The PSA site's `#C81E30` maps here |
+| `--k-red-700` | `#C81E2F` | Links, every red button fill, text-size red (5.7:1 on white). The PSA site's `#C81E30` maps here |
 | `--k-red-800` | `#B0182A` | Pressed state, focus ring |
 | `--k-ink` / `--k-paper` | `#0A0A0A` / `#FFFFFF` | |
 | `--k-surface` / `--k-line` / `--k-muted` | `#F4F4F4` / `#E6E6E6` / `#6E6E76` | |
@@ -91,6 +91,8 @@ const mono = JetBrains_Mono({ subsets: ["latin"], weight: ["500"], display: "swa
 
 `.k-btn` + size (`--hero` 52/18, default 44/16, `--compact` 36/14) + variant (`--primary`, `--secondary`, `--ghost`, `--accent`, `--danger`) + shape (`--pill` default, `--console` 8 px). `--mono` gives mono caps and only works with `--compact`. Icon goes in `<span class="k-btn__icon">` after the label.
 
+Red fills are red-700 at every size: button text is 14 to 18 px, and white on red-500 is only 4.1:1. The accent variant takes each product's text-safe pair, so red presets fill with red-700 and the other presets with their own accent.
+
 ![Button matrix](docs/button-matrix.png)
 
 Generated from `examples/` with `pnpm matrix`. Computed styles for every combination are snapshot-tested.
@@ -108,6 +110,8 @@ import { FooterStrip } from "@kultura/house-kit/react";
 ```
 
 Renders plain HTML on the server, so nothing shifts. Outside React use `<k-footer-strip current="gelar" entity="PT Kultura Digital Kreasi, Jakarta">` with the elements script, or `renderFooterStripHTML()` on the server. The big product wordmark above the link columns stays in each product's footer; the kit provides `.k-footer-wordmark`.
+
+The strip keeps the red-500 band, so all its text is large (19 px bold and up): white on red-500 is 4.1:1, which passes only as large text. To line it up with a site's own container, set `--k-strip-max` (default 1280px) and `--k-strip-pad` (default 16px on phones, 32px from 640px) on any ancestor, for example `.k{--k-strip-max:var(--k-maxw);--k-strip-pad:var(--k-pad)}`.
 
 ## Card viewer
 
@@ -148,7 +152,7 @@ Product repos call the reusable workflow from their fast tier on PRs that touch 
     needs: changes
     if: needs.changes.outputs.public == 'true' && github.event_name == 'pull_request'
     permissions: { contents: read, deployments: read }
-    uses: adesulco/kultura-house-kit/.github/workflows/lighthouse-mobile.yml@v0.1.0
+    uses: adesulco/kultura-house-kit/.github/workflows/lighthouse-mobile.yml@v0.1.1
     with:
       paths: |
         /

diff --git a/docs/adoption-kioskultura.md b/docs/adoption-kioskultura.md
@@ -4,17 +4,17 @@ These repos are Nuxt (Vue) on GitLab and are read-only for now, so they take the
 
 ## Files
 
-From the GitHub release `v0.1.0` of `adesulco/kultura-house-kit`, download:
+From the GitHub release `v0.1.1` of `adesulco/kultura-house-kit`, download:
 
 - `kultura-house-kit.css`: tokens, type scale, buttons, focus, motion, footer strip and card viewer, minified
 - `kultura-house-kit.js`: registers `<k-card-viewer>` and `<k-footer-strip>` and starts `.k-reveal` (one file, no dependencies)
 - `ecosystem.json`: the footer links, for reference
 
 ```bash
-gh release download v0.1.0 -R adesulco/kultura-house-kit -p 'kultura-house-kit.*' -D assets/vendor/house-kit
+gh release download v0.1.1 -R adesulco/kultura-house-kit -p 'kultura-house-kit.*' -D assets/vendor/house-kit
 ```
 
-Commit them under `assets/vendor/house-kit/` with a one-line `VERSION` file holding `v0.1.0`.
+Commit them under `assets/vendor/house-kit/` with a one-line `VERSION` file holding `v0.1.1`.
 
 ## Steps
 

diff --git a/CHANGELOG.md b/CHANGELOG.md
@@ -1,5 +1,12 @@
 # Changelog
 
+## 0.1.1
+
+- Red buttons fill with red-700 at every size; red-500 with white text was 4.1:1. The accent variant takes each preset's text-safe pair at every size.
+- Footer strip: links and the entity line are 19 px bold, so all its white-on-red-500 text is large (AA at 3:1).
+- Footer strip: `--k-strip-max` and `--k-strip-pad` let a site match its own container.
+- Lighthouse workflow checks out the v0.1.1 script by default.
+
 ## 0.1.0
 
 First release.
